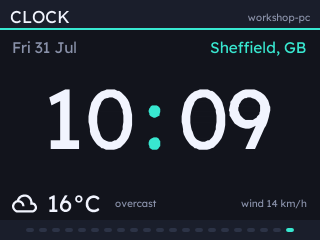
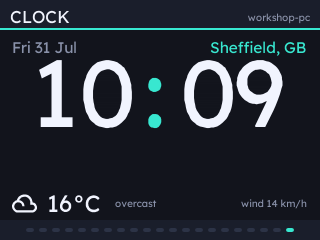
Draw the clock's digits from a finer grid, at the size that fits
The digital face sized its digits by the sprite, size * 1.35, most of which is
room a descender would want, so they stood 64px in a 126px slot. They are now
sized by the ink and capped on width against the widest time they could ever
show, "44:44", so the size does not change from one minute to the next: 70px
tall and filling the band.

A .af point is a signed byte and a capital stands 81 of those units, so a
coordinate is size/119 pixels: at 93pt every vertex on a curve is snapped 0.8px,
which is what makes large numbers lumpy. The other suspects do not account for
it - an edge resolves in a single pixel over ~150 coverage levels, and a font
built at a fifteenth of the usual tolerance renders identically. So the digits
now come from fonts/lexend-digits.af, packed at 122 units to a capital, which is
as tall as the byte holds and 1.5x finer. At 185pt the difference is the
difference between round dots and hexagons.

make_text_font.py takes --cap and --chars for it, with the simplification
tolerance now defaulting to half the grid step and scaling with the cap: a
tolerance means nothing except against the glyph it is thinning, and at a high
cap a fixed one leaves contours over the firmware's 512-point buffer, which
drops them in silence.

draw.add_font takes a font's cap height and label converts, so a caller asks for
the size it wants whichever font it names and every placement rule stays in one
[…]

Changed region(s): [[0.125, 0.2333, 0.5312, 0.6417], [0.5625, 0.2333, 0.9062, 0.6417]]

diff --git a/src/statsbadge/badge_app/draw.py b/src/statsbadge/badge_app/draw.py
@@ -31,7 +31,15 @@ _bands = {}
 # collide, and one of them would be drawn in the wrong font.
 TEXT = "text"
 ICONS = "icons"
+DIGITS = "digits"
 _fonts = {}
+
+# Units a capital stands in a font built the ordinary way, which is what a size means:
+# ../BADGEWARE.md, and tools/make_text_font.py's --cap. A font built taller is finer, a
+# point being a signed byte either way, and _font_cap is what lets a caller go on asking
+# for the size it wants whichever one it is drawing with.
+CAP_UNITS = 81
+_font_cap = {}
 
 
 def prepare():
@@ -48,10 +56,21 @@ def prepare():
     _fonts[look.FONT_NAME] = FONT
     screen.font = FONT
     add_font(ICONS, look.ICON_FILE)
+    # Text drawn large wobbles: a point is a signed byte, so at 93pt one unit is 0.8px and
+    # every vertex on a curve is snapped that far. The digits are also packed at a finer
+    # grid, for the pages that draw a number the height of the band. An install predating
+    # the file falls back to the text font, which is the same shapes with the wobble.
+    if not add_font(DIGITS, look.DIGITS_FILE, cap=look.DIGITS_CAP):
+        _fonts[DIGITS] = FONT
+        _font_cap[DIGITS] = CAP_UNITS
 
 
-def add_font(name, *paths):
+def add_font(name, *paths, cap=CAP_UNITS):
     """Register a font under a name, from the first of `paths` that loads.
+
+    `cap` is the units a capital stands in that file, 81 for one built the ordinary way.
+    Sizes are quoted in those terms whatever the font, so a caller asks for the size it
+    wants and `label` converts: a font packed at a finer grid is a drop-in replacement.
 
     A bare filename is looked for in the installed app directory and then beside this
     module. That order matters under `mpremote mount`: the mounted copy is served as text,
@@ -75,8 +94,15 @@ def add_font(name, *paths):
             except Exception as exc:  # noqa: BLE001  try the next one
                 print(f"draw: could not load {candidate}: {exc}")
                 continue
+            _font_cap[name] = cap
             return True
     return False
+
+
+def _drawn_size(name, size):
+    """The size to ask a font for, so `size` means the same height in every one of them."""
+    cap = _font_cap.get(name, CAP_UNITS)
+    return size if cap == CAP_UNITS else size * CAP_UNITS / cap
 
 
 def _candidates(path):
@@ -124,6 +150,12 @@ def use_font(name):
 
 # -- text cache -------------------------------------------------------------
 
+# What the baked strings may hold between them. A screen of furniture is a few tens of KB;
+# the ceiling is for the pages that bake something enormous.
+LABEL_CACHE_BYTES = 768 * 1024
+_label_bytes = 0
+
+
 def label(text_value, size, rgb, name=TEXT):
     """A string baked into a sprite. Live text is ~1ms a line, a blit is 0.08ms."""
     key = (name, text_value, size, rgb)
@@ -136,7 +168,8 @@ def label(text_value, size, rgb, name=TEXT):
     was = screen.font
     screen.font = face
     try:
-        width, height = screen.measure_text(text_value, font_size=size)
+        drawn = _drawn_size(name, size)
+        width, height = screen.measure_text(text_value, font_size=drawn)
         width = max(1, int(width + 2))
         height = max(1, int(size * 1.35))
         sprite = image(width, height)
@@ -145,13 +178,20 @@ def label(text_value, size, rgb, name=TEXT):
         sprite.rectangle(rect(0, 0, width, height))
         sprite.antialias = image.X4
         sprite.pen = color.rgb(*rgb)
-        sprite.text(text_value, vec2(0, 0), size)
+        # The baseline lands `size` from the top whatever the font's own grid, which is what
+        # keeps every placement rule here in one set of terms.
+        sprite.text(text_value, vec2(0, size - drawn), drawn)
     finally:
         screen.font = was
-    if len(_labels) > 220:
+    global _label_bytes
+    _label_bytes += width * height * 4
+    if len(_labels) > 220 or _label_bytes > LABEL_CACHE_BYTES:
         # Values churn; the cache is for furniture, so drop it wholesale rather than
-        # tracking ages.
+        # tracking ages. Bounded by bytes as well as by count, because a page drawing a
+        # number the height of the band bakes 400KB a minute and would otherwise hold every
+        # minute it had drawn.
         _labels.clear()
+        _label_bytes = 0
     _labels[key] = sprite
     return sprite
 
@@ -179,8 +219,10 @@ def blit_icon(character, size, rgb, x, y, align=0):
 
 
 def clear_cache():
+    global _label_bytes
     _labels.clear()
     _bands.clear()
+    _label_bytes = 0
 
 
 # -- measuring --------------------------------------------------------------
@@ -200,7 +242,7 @@ def text_width(text_value, size, name=TEXT):
     was = screen.font
     screen.font = face
     try:
-        width, _ = screen.measure_text(text_value, font_size=size)
+        width, _ = screen.measure_text(text_value, font_size=_drawn_size(name, size))
     finally:
         screen.font = was
     return int(width) + 2

diff --git a/tools/make_text_font.py b/tools/make_text_font.py
@@ -61,6 +61,11 @@ def default_codepoints():
 
 CAP_HEIGHT = 81           # units a capital stands in the reference font
 MAX_COORD = 127
+# Half a unit, so the simplifier gives up no more than the grid the points are
+# rounded to already costs. Scaled with --cap: a tolerance means nothing except
+# against the size of the glyph it is thinning, and at a high cap a fixed one
+# leaves contours over the firmware's 512-point buffer, which drops them.
+QUALITY = 0.5
 MAX_ADVANCE = 254
 # The glyph renderer converts one contour at a time into a fixed buffer and skips any that
 # does not fit, without a word: the glyph loses a piece, or draws nothing at all where it
@@ -75,8 +80,8 @@ MAX_CONTOUR = 512
 SAFE_CONTOUR = 256        # what an unraised firmware manages
 
 
-def cap_scale(face, sample="H"):
-    """Font units per output unit, so that a capital stands CAP_HEIGHT."""
+def cap_scale(face, sample="H", cap=CAP_HEIGHT):
+    """Font units per output unit, so that a capital stands `cap`."""
     if face.get_char_index(ord(sample)) == 0:
         raise SystemExit(f"the font has no {sample!r} to measure a cap height from")
     import freetype
@@ -84,7 +89,7 @@ def cap_scale(face, sample="H"):
     height = Bounds(face.glyph.outline.get_bbox()).height
     if not height:
         raise SystemExit(f"{sample!r} has no outline to measure")
-    return height / CAP_HEIGHT
+    return height / cap
 
 
 def text_glyph(face, codepoint, scale, tolerance):
@@ -155,10 +160,20 @@ def main():
     parser = argparse.ArgumentParser(description="Build an .af text font.")
     parser.add_argument("font", help="a .ttf or .otf to take glyphs from")
     parser.add_argument("--out", required=True, help="output .af")
-    parser.add_argument("--quality", type=float, default=0.5,
-                        help="simplification tolerance, in output units of 81 to a "
-                             "capital. 0 keeps every point (default: 0.5)")
+    parser.add_argument("--quality", type=float,
+                        help="simplification tolerance, in output units. 0 keeps every "
+                             f"point. Defaults to {QUALITY} at a cap of {CAP_HEIGHT} and "
+                             "scales with --cap, since a tolerance is only meaningful "
+                             "against the size of the glyph it is thinning")
     parser.add_argument("--weight", type=int, help="variable weight axis, e.g. 500")
+    parser.add_argument("--cap", type=int, default=CAP_HEIGHT,
+                        help=f"units a capital stands in the output, where the reference "
+                             f"font is {CAP_HEIGHT} (default: {CAP_HEIGHT}). Higher is "
+                             f"finer, since a point is a signed byte either way, and is "
+                             f"for a font drawn large; draw.add_font takes the same number "
+                             f"so a caller still asks for the size it wants")
+    parser.add_argument("--chars",
+                        help="only these characters, for a font built for one job")
     parser.add_argument("--list", action="store_true",
                         help="report coverage and size, and write nothing")
     args = parser.parse_args()
@@ -174,11 +189,14 @@ def main():
         except Exception as exc:  # noqa: BLE001  a static font has no axes
             raise SystemExit(f"--weight needs a variable font: {exc}") from None
 
-    scale = cap_scale(face)
-    wanted = default_codepoints()
+    quality = (args.quality if args.quality is not None
+               else QUALITY * args.cap / CAP_HEIGHT)
+    scale = cap_scale(face, cap=args.cap)
+    wanted = ([ord(c) for c in args.chars] if args.chars
+              else default_codepoints())
     glyphs, missing = [], []
     for codepoint in wanted:
-        glyph = text_glyph(face, codepoint, scale, args.quality)
+        glyph = text_glyph(face, codepoint, scale, quality)
         if glyph is None:
             missing.append(codepoint)
             continue
@@ -195,7 +213,8 @@ def main():
     blob = pack(glyphs)
     points = sum(len(c) for g in glyphs for c in g.contours)
     print(f"{args.font}")
-    print(f"  cap height scale {scale:.3f} font units per output unit")
+    print(f"  cap height {args.cap} units, {scale:.3f} font units per "
+          f"output unit, tolerance {quality:.3f}")
     longest = max((len(c) for g in glyphs for c in g.contours), default=0)
     print(f"  {len(glyphs)} glyphs, {points} points, {len(blob)} bytes "
           f"({len(blob) // max(1, len(glyphs))} each)")

diff --git a/extensions/statsbadge-clock/src/statsbadge_clock/badge/clockface.py b/extensions/statsbadge-clock/src/statsbadge_clock/badge/clockface.py
@@ -216,6 +216,11 @@ def _register_font():
     draw.add_font(WEATHER_FONT, look.APP_DIR + "/ext/icons.af", beside)
 
 
+# What the digits are sized against: 4 is the widest of them in this face, so a time made of
+# them is the one that has to fit.
+WIDEST_TIME = "44:44"
+
+
 def _digital(clock, weather, label, theme):
     """No dial: the whole band, laid out as a desk clock and drawn in the theme.
 
@@ -232,19 +237,31 @@ def _digital(clock, weather, label, theme):
 
     text = clock.get("time") or "--:--"
     hours, _, minutes = text.partition(":")
-    # As large as the band allows between the two rows, worked out rather than picked: a
-    # label sprite stands size * 1.35 tall, and there is nothing else competing for the
-    # middle of a digital face.
+    # As large as the band allows between the two rows, and sized by the ink rather than by
+    # the sprite: a digit stands draw.CAP of the size asked for, so sizing by the sprite -
+    # which is size * 1.35, most of it the room a descender would want - drew them at half
+    # the height that fits.
+    gap = 10
     digits_top = look.BODY_TOP + 26
     room = (look.BODY_TOP + look.BODY_H - 38) - digits_top
-    size = int(room / 1.35)
-    digits_left = draw.label(hours, size, theme.ink)
-    digits_right = draw.label(minutes or "--", size, theme.ink)
-    colon = draw.label(":", size, theme.accent)
-    gap = 10
+    size = int(room / draw.CAP)
+    # And no wider than the band. Measured against the widest time it could ever have to
+    # show rather than the one it is showing, so the digits do not change size from one
+    # minute to the next and nothing is ever clipped.
+    span = look.W - look.PAD * 4
+    widest = draw.text_width(WIDEST_TIME, size, draw.DIGITS) + gap * 2
+    if widest > span:
+        size = int(size * span / widest)
+    # The app's digits font, which is packed at a finer grid. At this size the ordinary one
+    # snaps every point on a curve by most of a pixel: the bowls come out lumpy and the
+    # colon is a pair of hexagons.
+    digits_left = draw.label(hours, size, theme.ink, draw.DIGITS)
+    digits_right = draw.label(minutes or "--", size, theme.ink, draw.DIGITS)
+    colon = draw.label(":", size, theme.accent, draw.DIGITS)
     total = digits_left.width + colon.width + digits_right.width + gap * 2
     x = (look.W - total) // 2
-    y = digits_top
+    # The sprite's baseline sits `size` from its top, so this lifts the ink to digits_top.
+    y = digits_top - int(size * (1.0 - draw.CAP))
     screen.blit(digits_left, vec2(int(x), int(y)))
     screen.blit(colon, vec2(int(x + digits_left.width + gap), int(y)))
     screen.blit(digits_right,

diff --git a/src/statsbadge/badge_app/look.py b/src/statsbadge/badge_app/look.py
@@ -65,6 +65,14 @@ def readout_rows(count, height=READOUT_H):
 FONT_FILE = "fonts/lexend-regular.af"
 FONT_NAME = "lexend"
 
+# The same face, digits only, packed at a finer grid for text drawn large: a point is a
+# signed byte, so at 93pt one unit of the ordinary font is 0.8px and the snap shows as a
+# wobble along every curve. 122 units to a capital is as tall as the format holds. Digits,
+# the colon, a full stop, a comma, plus, minus, a space and the degree sign - a string with
+# a letter in it wants the text font. Built by tools/make_text_font.py --cap 122.
+DIGITS_FILE = "fonts/lexend-digits.af"
+DIGITS_CAP = 122
+
 # Only if the app's own font did not arrive - an install that predates it, or a partial
 # copy. Text is the one thing the app cannot draw a page without, so it borrows rather than
 # gives up.

diff --git a/DEVELOPMENT.md b/DEVELOPMENT.md
@@ -34,6 +34,8 @@ Two halves sharing one small contract: the host decides *what* to show, the badg
 
 **The debug probe shares Raspberry Pi's USB vendor id** with the board it is attached to, so port detection filters on product id and product string. Talking MicroPython to a CMSIS-DAP interface just times out.
 
+**A .af point is a signed byte, which is the ceiling on how large text can be drawn.** A capital stands 81 of those units, so a coordinate is `size / 119` pixels and at 93pt every vertex on a curve is snapped 0.8px. That is what makes big numbers lumpy, and none of the other suspects account for it: the antialiasing resolves an edge in a single pixel over ~150 coverage levels, and a font built at a fifteenth of the usual simplification tolerance renders identically. The one lever inside the format is packing a glyph taller - `tools/make_text_font.py --cap`, up to 122 before a digit's own height overflows the byte - which buys 1.5x, and `fonts/lexend-digits.af` spends it on the digits alone. `draw.add_font` takes that cap and `label` converts, so a caller still asks for the size it wants. Past 1.5x the format has to change: points are `int8_t x, y` in picovector's `font.hpp` and are read in exactly one place, so a flags bit for 16-bit points is a small loader change, but the glyph record's bbox and advance are bytes too and would have to widen with them.
+
 **A .af advance over 127 is read as negative.** It is a signed byte, so an icon font that
 fills the -128..127 coordinate range draws every glyph of a run on the same spot, and
 `measure_text` returns a width of zero. Nothing in the badge's own font exceeds 120, and a
